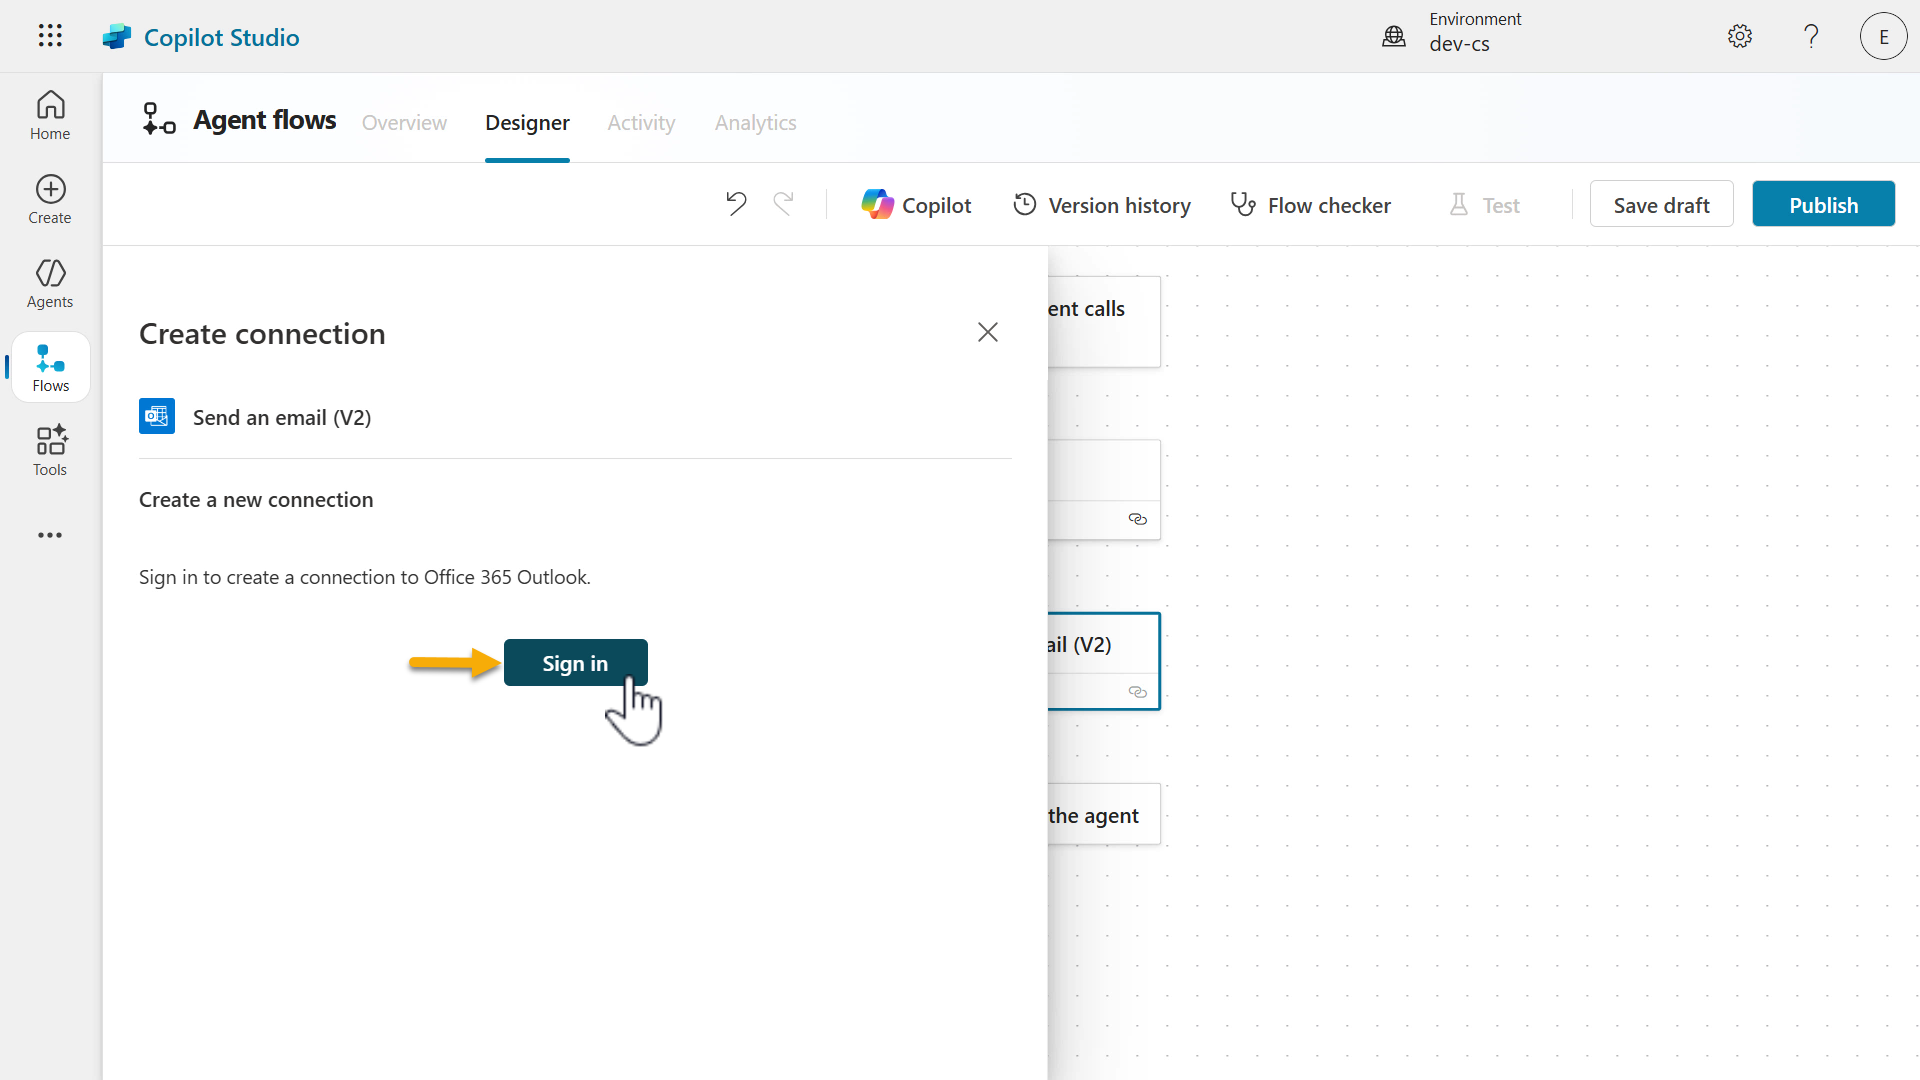
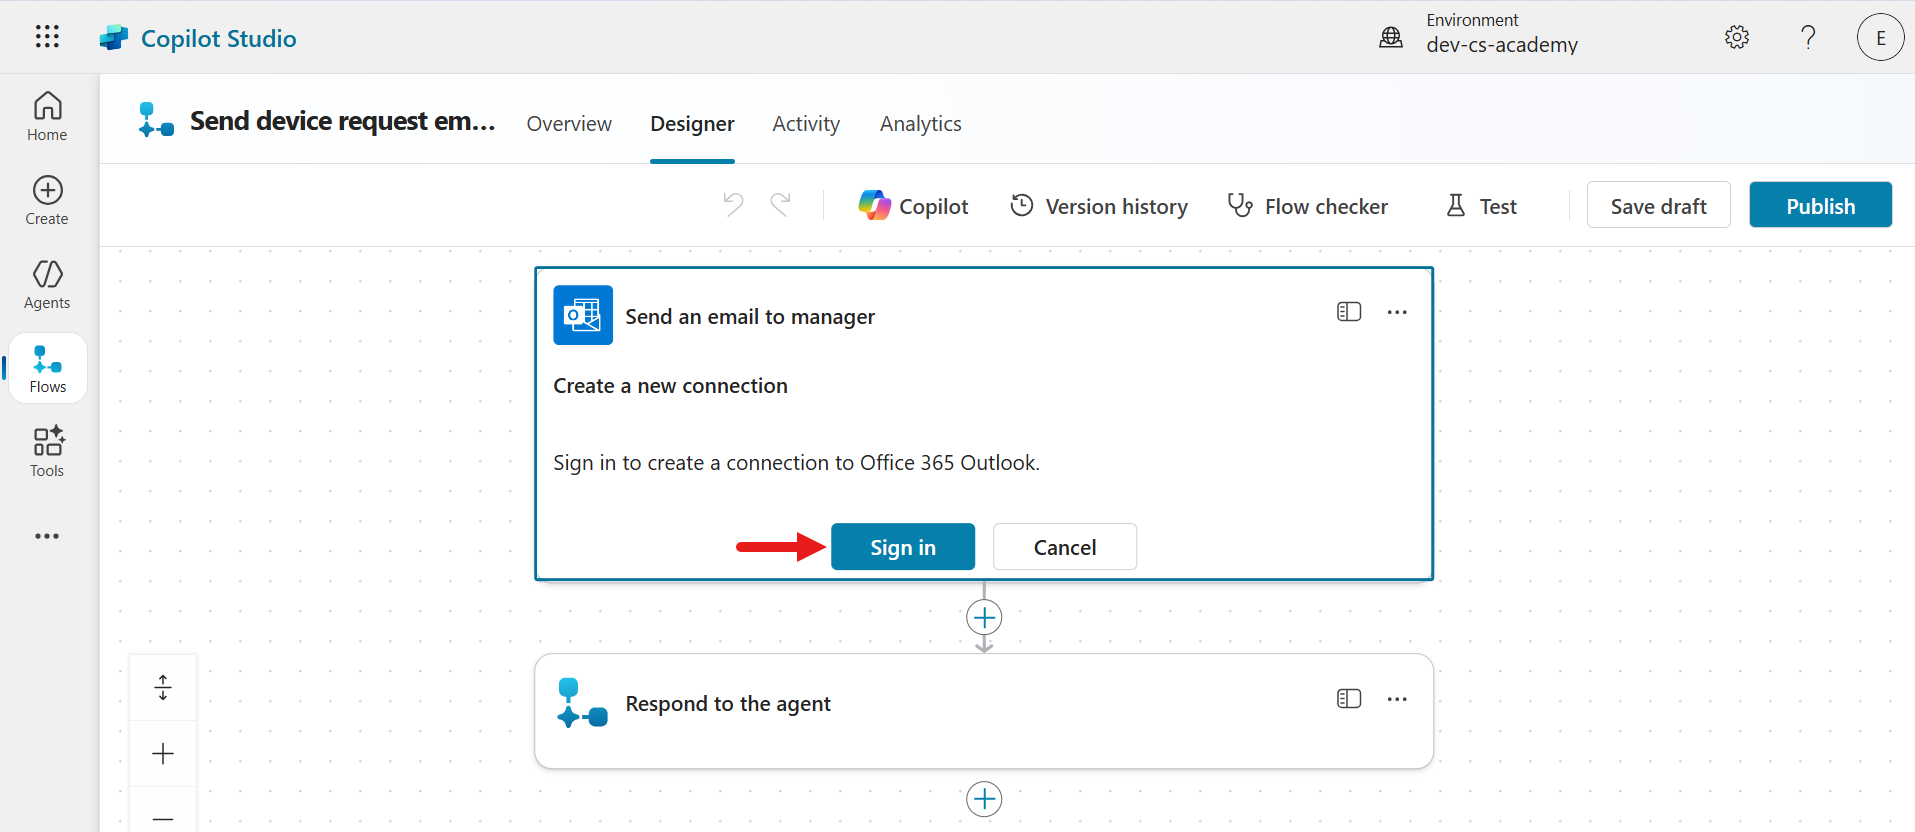
Updated images and instructions

diff --git a/docs/recruit/09-add-an-agent-flow/README.md b/docs/recruit/09-add-an-agent-flow/README.md
@@ -459,15 +459,13 @@ In this exercise, we'll create an agent flow that retrieves the SharePoint item 
 
 1. In the **Site Address** field, select the **Site address** of the Contoso IT SharePoint site created in [Lesson 00 - Course Setup - Step 3: Create new SharePoint site](../00-course-setup/README.md#step-4-create-new-sharepoint-site).
 
-    ![Select SharePoint site address](./assets/9.1_16_SelectSharePointSiteAddress.png)
+    In the **List Name** field, select the **Devices** SharePoint list.
 
-1. In the **List Name** field, select the **Devices** SharePoint list.
-
-    ![Devices SharePoint list](./assets/9.1_17_SelectDevicesList.png)
+    ![Input parameters](./assets/9.1_16_SharePointSiteAndListParameters.png)
 
 1. In the **Id** field, select the **lightning bolt icon** or **fx icon** to the right.
 
-    ![Dynamic content picker](./assets/9.1_18_InsertExpression.png)
+    ![Dynamic content picker](./assets/9.1_17_InsertExpressionIcon.png)
 
 1. In the **Dynamic content** tab of the flyout pane, enter the following,
 
@@ -477,15 +475,21 @@ In this exercise, we'll create an agent flow that retrieves the SharePoint item 
 
     The search results will show input parameters that match the value searched. Select the **DeviceSharePointId** parameter from the trigger.
 
-    ![Select DeviceSharePointId input](./assets/9.1_19_DeviceSharePointId.png)
+    Next, select **Add** to add the dynamic content input into the **Id** parameter of the action.
 
-1. Select **Add** to add the dynamic content input into the **Id** parameter of the action.
+    ![Select DeviceSharePointId input](./assets/9.1_18_DeviceSharePointId.png)
 
-    ![Select add](./assets/9.1_20_AddDynamicContent.png)
+1. The dynamic content input from the trigger is now referenced in the **Id** parameter of the action. We're going to update one of the advanced parameters next. Select **Show all** to view the advanced parameters.
 
-1. The dynamic content input from the trigger is now referenced in the **Id** parameter of the action. Select the **Collapse icon** to collapse the trigger.
+    ![View advanced parameters](./assets/9.1_19_AdvancedParameters.png)
 
-    ![Collapse Get item action](./assets/9.1_21_CollapseGetItemAction.png)
+1. The **Limit Columns by View** parameter will be displayed and by default it's set to **Use all columns (Do not limit)**. We'll update this value to a view to limit the columns returned in the response of the action. Select the **Limit Columns by View** parameter to view the list of views.
+
+    ![Select parameter](./assets/9.1_20_LimitColumnsByView.png)
+
+1. Select the **All Items** view.
+
+    ![Select All Items view](./assets/9.1_21_SelectView.png)
 
 1. Select the **plus + icon** under the _Get Device_ action to insert a new action.
 
@@ -494,12 +498,12 @@ In this exercise, we'll create an agent flow that retrieves the SharePoint item 
 1. In the search field enter the following,
 
     ```text
-    send
+    send an email
     ```
 
     A list of actions will display in the search results. Select the **Send an email (V2)** action from the **Office 365 Outlook connector**.
 
-    ![Send an email action](./assets/9.1_23_SendAnEmailAction.png)
+    ![Send an email action](./assets/9.1_23_SendAnEmail.png)
 
 1. We next need to create a connection for the connector action. Select **Sign in**.
 
@@ -509,7 +513,7 @@ In this exercise, we'll create an agent flow that retrieves the SharePoint item 
 
     ![Select user account](./assets/9.1_25_SelectUserAccount.png)
 
-1. Select **Allow access**.
+1. Select **Allow access**. A connection has now been created.
 
     ![Select allow access](./assets/9.1_26_AllowAccess.png)
 
@@ -519,9 +523,7 @@ In this exercise, we'll create an agent flow that retrieves the SharePoint item 
     Send an email to manager
     ```
 
-    ![Add an input](./assets/9.1_27_RenameAction.png)
-
-1. Let's now define our action.
+    Let's next define the input parameters of our action.
 
     For the **To** input parameter, select yourself. Normally this would be your manager or we'd use another action that pulls through your manager based on your Entra ID profile but for the purpose of this lesson, select yourself.
 
@@ -532,8 +534,6 @@ In this exercise, we'll create an agent flow that retrieves the SharePoint item 
     ```
 
     For the **Body** input parameter, enter the following,
-
-    ![Add an input](./assets/9.1_28_ConfigureInputParameters.png)
 
     ```text
     Hi,
@@ -548,23 +548,23 @@ In this exercise, we'll create an agent flow that retrieves the SharePoint item 
     This is an automated email from Contoso Helpdesk Copilot
     ```
 
+    ![Rename action and configure inputs](./assets/9.1_27_RenameAndConfigureParameters.png)
+
 1. Next, we're going to update the **Body** input parameter with references to dynamic content input from the **trigger** or **Get item** action. Enter a space after the second line as we'll insert the name of the user from the trigger input, **User**.
 
     Select the **lightning bolt icon** or **fx icon** to the right.
 
-    ![Add User input as dynamic content](./assets/9.1_29_AddUserInput.png)
+    ![Add User input as dynamic content](./assets/9.1_28_AddUserInput.png)
 
 1. In the **Dynamic content** tab of the flyout pane, select the **User** input from the trigger.
 
-    ![Select User input](./assets/9.1_30_SelectUserInput.png)
+    Select **Add** to add the dynamic content **User** input into the **Body** parameter of the action.
 
-1. Select **Add** to add the dynamic content **User** input into the **Body** parameter of the action.
-
-    ![Add User input](./assets/9.1_31_AddUserInput.png)
+    ![Select User input](./assets/9.1_29_SelectUserInput.png)
 
 1. The dynamic content input from the trigger is now referenced in the **Body** parameter of the action. We'll repeat the same for the remaining lines in the email message body.
 
-    ![User input added](./assets/9.1_32_UserInputAdded.png)
+    ![User input added](./assets/9.1_30_UserInputAdded.png)
 
 1. Click into the space beside `Manufacturer:`. Select the **lightning bolt icon** or **fx icon** to the right.
 
@@ -576,7 +576,7 @@ In this exercise, we'll create an agent flow that retrieves the SharePoint item 
 
     Select the **Manufacturer value** input from the trigger and select **Add**.
 
-    ![Add Manufacturer value input as dynamic content](./assets/9.1_33_AddManufacturerValueInput.png)
+    ![Add Manufacturer value input as dynamic content](./assets/9.1_31_ManufacturerValueAdded.png)
 
 1. Click into the space beside `Model:`. Select the **lightning bolt icon** or **fx icon** to the right.
 
@@ -588,16 +588,11 @@ In this exercise, we'll create an agent flow that retrieves the SharePoint item 
 
     Select the **Model** input from the **Get item** action and select **Add**.
 
-    ![Add Model input as dynamic content](./assets/9.1_34_AddModelInput.png)
+    ![Add Model input as dynamic content](./assets/9.1_32_ModelAdded.png)
 
-1. For the `Link to item in SharePoint` text, we'll update this to be a hyperlink in the email message body. We need to switch to the HTML editor by selecting the **&lt;/&gt;**
- icon.
+1. For the `Link to item in SharePoint` text, we'll update this to be a hyperlink in the email message body. Click at the beginning of the line and select the **lightning bolt icon** or **fx icon** to the right.
 
-    ![Add User input](./assets/9.1_35_SwitchToHTMLEditor.png)
-
-1. The HTML editor is now enabled. Click before the `Link to item in SharePoint` text, add an HTML anchor tag to create a hyperlink
-
-    ![HTML tag](./assets/9.1_36_HTMLTag.png)
+    ![Add dynamic content](./assets/9.1_33_AddDynamicContent.png)
 
 1. Click after the HTML anchor tag and select the **lightning bolt icon** or **fx icon** to the right.
 
@@ -609,7 +604,20 @@ In this exercise, we'll create an agent flow that retrieves the SharePoint item 
 
     Select the **Link to item** input from the **Get item** action and select **Add**.
 
-    ![Add Model input as dynamic content](./assets/9.1_37_AddLinkToItemInput.png)
+    ![Add Link to item as dynamic content](./assets/9.1_34_AddLinkToItem.png)
+
+1. We need to switch to the HTML editor by selecting the **&lt;/&gt;**
+ icon.
+
+    ![Add User input](./assets/9.1_35_ToggleCodeView.png)
+
+1. The HTML editor is now enabled. Click before the `Link to item in SharePoint` text, add an HTML anchor tag to create a hyperlink. Copy and paste the following.
+
+    ```text
+    <a href="
+    ```
+
+    ![HTML tag](./assets/9.1_36_AddHTMLTag.png)
 
 1. The dynamic content input of **Link to item** is now referenced in the **Body** parameter. Click after the **Link to item** input, copy and paste the following.
 
@@ -617,16 +625,31 @@ In this exercise, we'll create an agent flow that retrieves the SharePoint item 
     ">
     ```
 
-    ![HTML tag](./assets/9.1_38_HTMLTag.png)
+    ![HTML tag](./assets/9.1_37_AddHTMLTag.png)
 
-1. Click after the `Link to item in SharePoint` text, close the html anchor tag
+1. Click after the `Link to item in SharePoint` text, close the html anchor tag. Copy and paste the following.
 
-    ![HTML tag](./assets/9.1_39_HTMLTag.png)
+    ```text
+    </a>>
+    ```
 
-1. We're now done adding a hyperlink to our email message body 😎 Select the **&lt;/&gt;**
- icon to disable the HTML editor.
+    ![HTML tag](./assets/9.1_38_AddHTMLTag.png)
 
-    ![Switch back to WYSIWYG editor](./assets/9.1_40_SwitchBackToBasicEditor.png)
+1. Select the **&lt;/&gt;** icon to toggle the code view.
+
+    ![Disable code view](./assets/9.1_39_ToggleCodeView)
+
+1. Then reselect the **&lt;/&gt;** icon to toggle the code view again.
+
+    ![Switch back to code view](./assets/9.1_40_ToggleCodeViewAgain.png)
+
+1. Notice how there are several extra characters `&lt;br&gt;`. Delete these characters
+
+    ![Delete characters](./assets/9.1_41_DeleteCharacters.png)
+
+1. We're now done adding a hyperlink to our email message body 😎 Select the **&lt;/&gt;** icon to toggle the code view.
+
+    ![Toggle code view](./assets/9.1_42_HTMLTagTidiedUp.png)
 
 1. Click after the `Additional comments from` text before the colon character.
 
